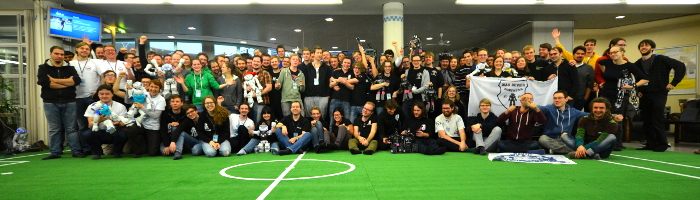
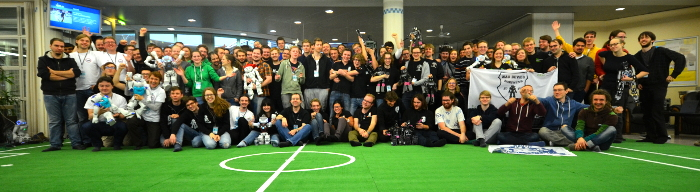
Adapt image size

diff --git a/2017/en/index.md b/2017/en/index.md
@@ -3,7 +3,7 @@ title: RoHOW
 layout: default-en-2017
 ---
 
-![Gruppenfoto]({{ site.baseurl }}/assets/img/teams2016.jpg){: width="600" height="250"}
+![Gruppenfoto]({{ site.baseurl }}/assets/img/teams2016.jpg){: width="700" height="192"}
 
 From 1st to 3rd December 2017 the fourth Robotic Hamburg Open Workshop (RoHOW) will be held at the Hamburg University of Technology (TUHH).
 

diff --git a/2017/de/index.md b/2017/de/index.md
@@ -6,7 +6,7 @@ redirect_from:
   - "/2017"
 ---
 
-![Gruppenfoto](/assets/img/teams2016.jpg){: width="600" height="250"}
+![Gruppenfoto](/assets/img/teams2016.jpg){: width="700" height="192"}
 
 Vom 1. bis 3. Dezember 2017 findet der vierte Robotic Hamburg Open Workshop (RoHOW) an der Technischen Universität Hamburg (TUHH) statt.
 
